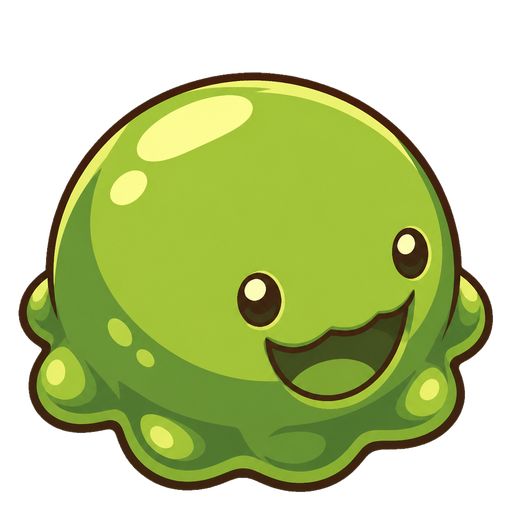
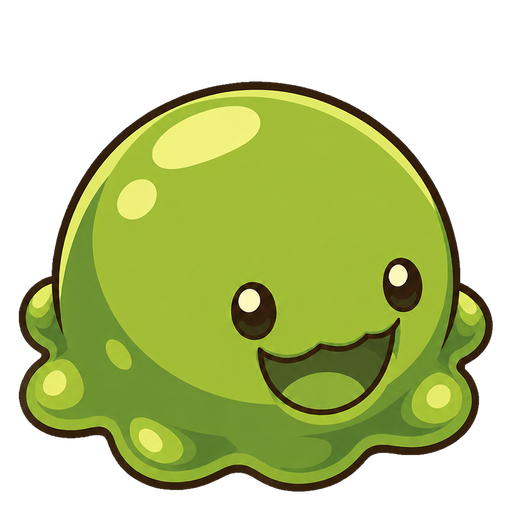
feat(mage_master): style 1 unit set — simplified chibi mages and enemies
Regenerated the three mage bases (magenta garment split into the tintable
layer, empty fist for the composited staff) and the seven enemies with the
codex image tool against the chosen style sheet, matted via mm-matte.py.
Staff anchors re-measured for the new fists. Provenance recorded.

Claude-Session: https://claude.ai/code/session_012Evt2wtLfv48RDU9LW1SPR

Changed region(s): [[0.0312, 0.125, 0.9688, 0.9688]]

diff --git a/games/mage_master/design/assets.ts b/games/mage_master/design/assets.ts
@@ -180,9 +180,10 @@ export interface MageAnchor {
 }
 
 const ANCHORS: Readonly<Record<string, MageAnchor>> = {
-  tank: { x: 0.15, y: 0.21, staffScale: 0.66, staffAngle: -6, staffPivotX: 0.44, staffPivotY: 0.56, staffBehind: false },
-  warrior: { x: 0.19, y: 0.32, staffScale: 0.62, staffAngle: -8, staffPivotX: 0.44, staffPivotY: 0.56, staffBehind: false },
-  support: { x: 0.27, y: 0.29, staffScale: 0.6, staffAngle: -4, staffPivotX: 0.44, staffPivotY: 0.56, staffBehind: false },
+  // Fist centres of the 2026-09-03 chibi set (measured on a 0.1 grid over the 512 body box).
+  tank: { x: 0.15, y: 0.24, staffScale: 0.62, staffAngle: -6, staffPivotX: 0.44, staffPivotY: 0.56, staffBehind: false },
+  warrior: { x: 0.27, y: 0.42, staffScale: 0.58, staffAngle: -8, staffPivotX: 0.44, staffPivotY: 0.56, staffBehind: false },
+  support: { x: 0.24, y: 0.38, staffScale: 0.56, staffAngle: -4, staffPivotX: 0.44, staffPivotY: 0.56, staffBehind: false },
 };
 
 export function mageAnchor(cls: string): MageAnchor {

diff --git a/games/mage_master/design/assets/PROVENANCE.md b/games/mage_master/design/assets/PROVENANCE.md
@@ -2,16 +2,16 @@
 
 One line per asset: file name — generator — prompt subject used. Style preamble (Kingdom Rush cel-shaded, flat #333333 background, isolated, no text) applied to every prompt; units additionally used a three-quarter top-down full-body view, icons a front centered-object view. Generated 2026-09-02.
 
-- unit-goblin-grunt.png — copied from pre-existing reference asset (goblin-alpha.png), not generated this session; original prompt not available
-- unit-mage-tank.png — codex image tool, gpt image model, 1254x1254, matte via mm-matte.py — stout battle mage in heavy steel-blue plate armor with a big round tower shield on one arm and a short staff with a blue crystal in the other, brave expression
-- unit-mage-warrior.png — codex image tool, gpt image model, 1254x1254, matte via mm-matte.py — lean fierce battle mage in crimson robes with shoulder plates, wielding a long greatstaff whose head is a burning orange flame, dynamic pose
-- unit-mage-support.png — codex image tool, gpt image model, 1254x1254, matte via mm-matte.py — kindly hooded mage in green-and-gold robes holding a staff topped with a glowing golden orb, small herb pouch at the belt, calm expression
-- unit-goblin-archer.png — codex image tool, gpt image model, 1254x1254, matte via mm-matte.py (3rd generation attempt; first two left an un-matted patch enclosed inside the drawn bow) — green goblin archer, leather cap, sneaky grin, quiver of arrows on the back, gripping a short wooden bow and arrow held low and close in front of the body so the bow overlaps and is mostly hidden behind the goblin's own arm and torso
-- unit-goblin-chief.png — codex image tool, gpt image model, 1254x1254, matte via mm-matte.py — big brutish goblin chieftain boss, spiked iron helmet, huge rusty cleaver, fur cape, tusks, imposing
-- unit-wolf.png — codex image tool, gpt image model, 1254x1254, matte via mm-matte.py — grey wolf, hunched prowling stance, bared fangs, yellow eyes
-- unit-wolf-alpha.png — codex image tool, gpt image model, 1254x1254, matte via mm-matte.py — huge black scarred dire wolf boss with glowing red eyes and spiky fur, snarling
-- unit-slime.png — codex image tool, gpt image model, 1254x1254, matte via mm-matte.py — cute round green jelly slime with a wide grin and two beady eyes, glossy highlights
-- unit-slime-king.png — codex image tool, gpt image model, 1254x1254, matte via mm-matte.py — giant red crowned king slime boss with a small gold crown, bones and a skull visible floating inside its jelly body
+- unit-goblin-grunt.png — REPLACED 2026-09-03 (style 1, simplified chibi): codex image tool with the style sheet evidence/2026-09-03-11-character-styles/1-forge-master-style.png and the previous sprite as identity reference attached, #333333 matte via mm-matte.py; earlier: copied from pre-existing reference asset (goblin-alpha.png), not generated this session; original prompt not available
+- unit-mage-tank.png — REPLACED 2026-09-03 (style 1, simplified chibi): codex image tool with the style sheet evidence/2026-09-03-11-character-styles/1-forge-master-style.png and the previous sprite as identity reference attached, #333333 matte via mm-matte.py; earlier: codex image tool, gpt image model, 1254x1254, matte via mm-matte.py — stout battle mage in heavy steel-blue plate armor with a big round tower shield on one arm and a short staff with a blue crystal in the other, brave expression
+- unit-mage-warrior.png — REPLACED 2026-09-03 (style 1, simplified chibi): codex image tool with the style sheet evidence/2026-09-03-11-character-styles/1-forge-master-style.png and the previous sprite as identity reference attached, #333333 matte via mm-matte.py; earlier: codex image tool, gpt image model, 1254x1254, matte via mm-matte.py — lean fierce battle mage in crimson robes with shoulder plates, wielding a long greatstaff whose head is a burning orange flame, dynamic pose
+- unit-mage-support.png — REPLACED 2026-09-03 (style 1, simplified chibi): codex image tool with the style sheet evidence/2026-09-03-11-character-styles/1-forge-master-style.png and the previous sprite as identity reference attached, #333333 matte via mm-matte.py; earlier: codex image tool, gpt image model, 1254x1254, matte via mm-matte.py — kindly hooded mage in green-and-gold robes holding a staff topped with a glowing golden orb, small herb pouch at the belt, calm expression
+- unit-goblin-archer.png — REPLACED 2026-09-03 (style 1, simplified chibi): codex image tool with the style sheet evidence/2026-09-03-11-character-styles/1-forge-master-style.png and the previous sprite as identity reference attached, #333333 matte via mm-matte.py; earlier: codex image tool, gpt image model, 1254x1254, matte via mm-matte.py (3rd generation attempt; first two left an un-matted patch enclosed inside the drawn bow) — green goblin archer, leather cap, sneaky grin, quiver of arrows on the back, gripping a short wooden bow and arrow held low and close in front of the body so the bow overlaps and is mostly hidden behind the goblin's own arm and torso
+- unit-goblin-chief.png — REPLACED 2026-09-03 (style 1, simplified chibi): codex image tool with the style sheet evidence/2026-09-03-11-character-styles/1-forge-master-style.png and the previous sprite as identity reference attached, #333333 matte via mm-matte.py; earlier: codex image tool, gpt image model, 1254x1254, matte via mm-matte.py — big brutish goblin chieftain boss, spiked iron helmet, huge rusty cleaver, fur cape, tusks, imposing
+- unit-wolf.png — REPLACED 2026-09-03 (style 1, simplified chibi): codex image tool with the style sheet evidence/2026-09-03-11-character-styles/1-forge-master-style.png and the previous sprite as identity reference attached, #333333 matte via mm-matte.py; earlier: codex image tool, gpt image model, 1254x1254, matte via mm-matte.py — grey wolf, hunched prowling stance, bared fangs, yellow eyes
+- unit-wolf-alpha.png — REPLACED 2026-09-03 (style 1, simplified chibi): codex image tool with the style sheet evidence/2026-09-03-11-character-styles/1-forge-master-style.png and the previous sprite as identity reference attached, #333333 matte via mm-matte.py; earlier: codex image tool, gpt image model, 1254x1254, matte via mm-matte.py — huge black scarred dire wolf boss with glowing red eyes and spiky fur, snarling
+- unit-slime.png — REPLACED 2026-09-03 (style 1, simplified chibi): codex image tool with the style sheet evidence/2026-09-03-11-character-styles/1-forge-master-style.png and the previous sprite as identity reference attached, #333333 matte via mm-matte.py; earlier: codex image tool, gpt image model, 1254x1254, matte via mm-matte.py — cute round green jelly slime with a wide grin and two beady eyes, glossy highlights
+- unit-slime-king.png — REPLACED 2026-09-03 (style 1, simplified chibi): codex image tool with the style sheet evidence/2026-09-03-11-character-styles/1-forge-master-style.png and the previous sprite as identity reference attached, #333333 matte via mm-matte.py; earlier: codex image tool, gpt image model, 1254x1254, matte via mm-matte.py — giant red crowned king slime boss with a small gold crown, bones and a skull visible floating inside its jelly body
 - icon-energy.png — codex image tool, gpt image model, 1254x1254, matte via mm-matte.py — yellow lightning bolt inside a round gold-framed medallion
 - icon-gold.png — codex image tool, gpt image model, 1254x1254, matte via mm-matte.py — single glossy gold coin with an embossed rune, slightly tilted
 - icon-crystal.png — codex image tool, gpt image model, 1254x1254, matte via mm-matte.py — cluster of glowing purple summon crystal shards
@@ -57,3 +57,5 @@ One line per asset: file name — generator — prompt subject used. Style pream
 - shop-gems-medium.png — codex image tool, gpt image model, 1254x1254, matte via mm-matte.py — an open wooden chest with gold trim heaped with cyan faceted gems
 - shop-gems-large.png — codex image tool, gpt image model, 1254x1254, matte via mm-matte.py — a stone vault doorway overflowing with a mound of cyan faceted gems and a gold crown on top
 - icon-nav-shop.png — codex image tool, gpt image model, 1254x1254, matte via mm-matte.py — a cream-and-gold market stall awning icon with a cyan gem on the sign, glyph-like and readable at 34 px
+
+- garment-mage-{tank,warrior,support}.png — regenerated 2026-09-03 with the new bases: magenta garment split via mm-garment.py.
